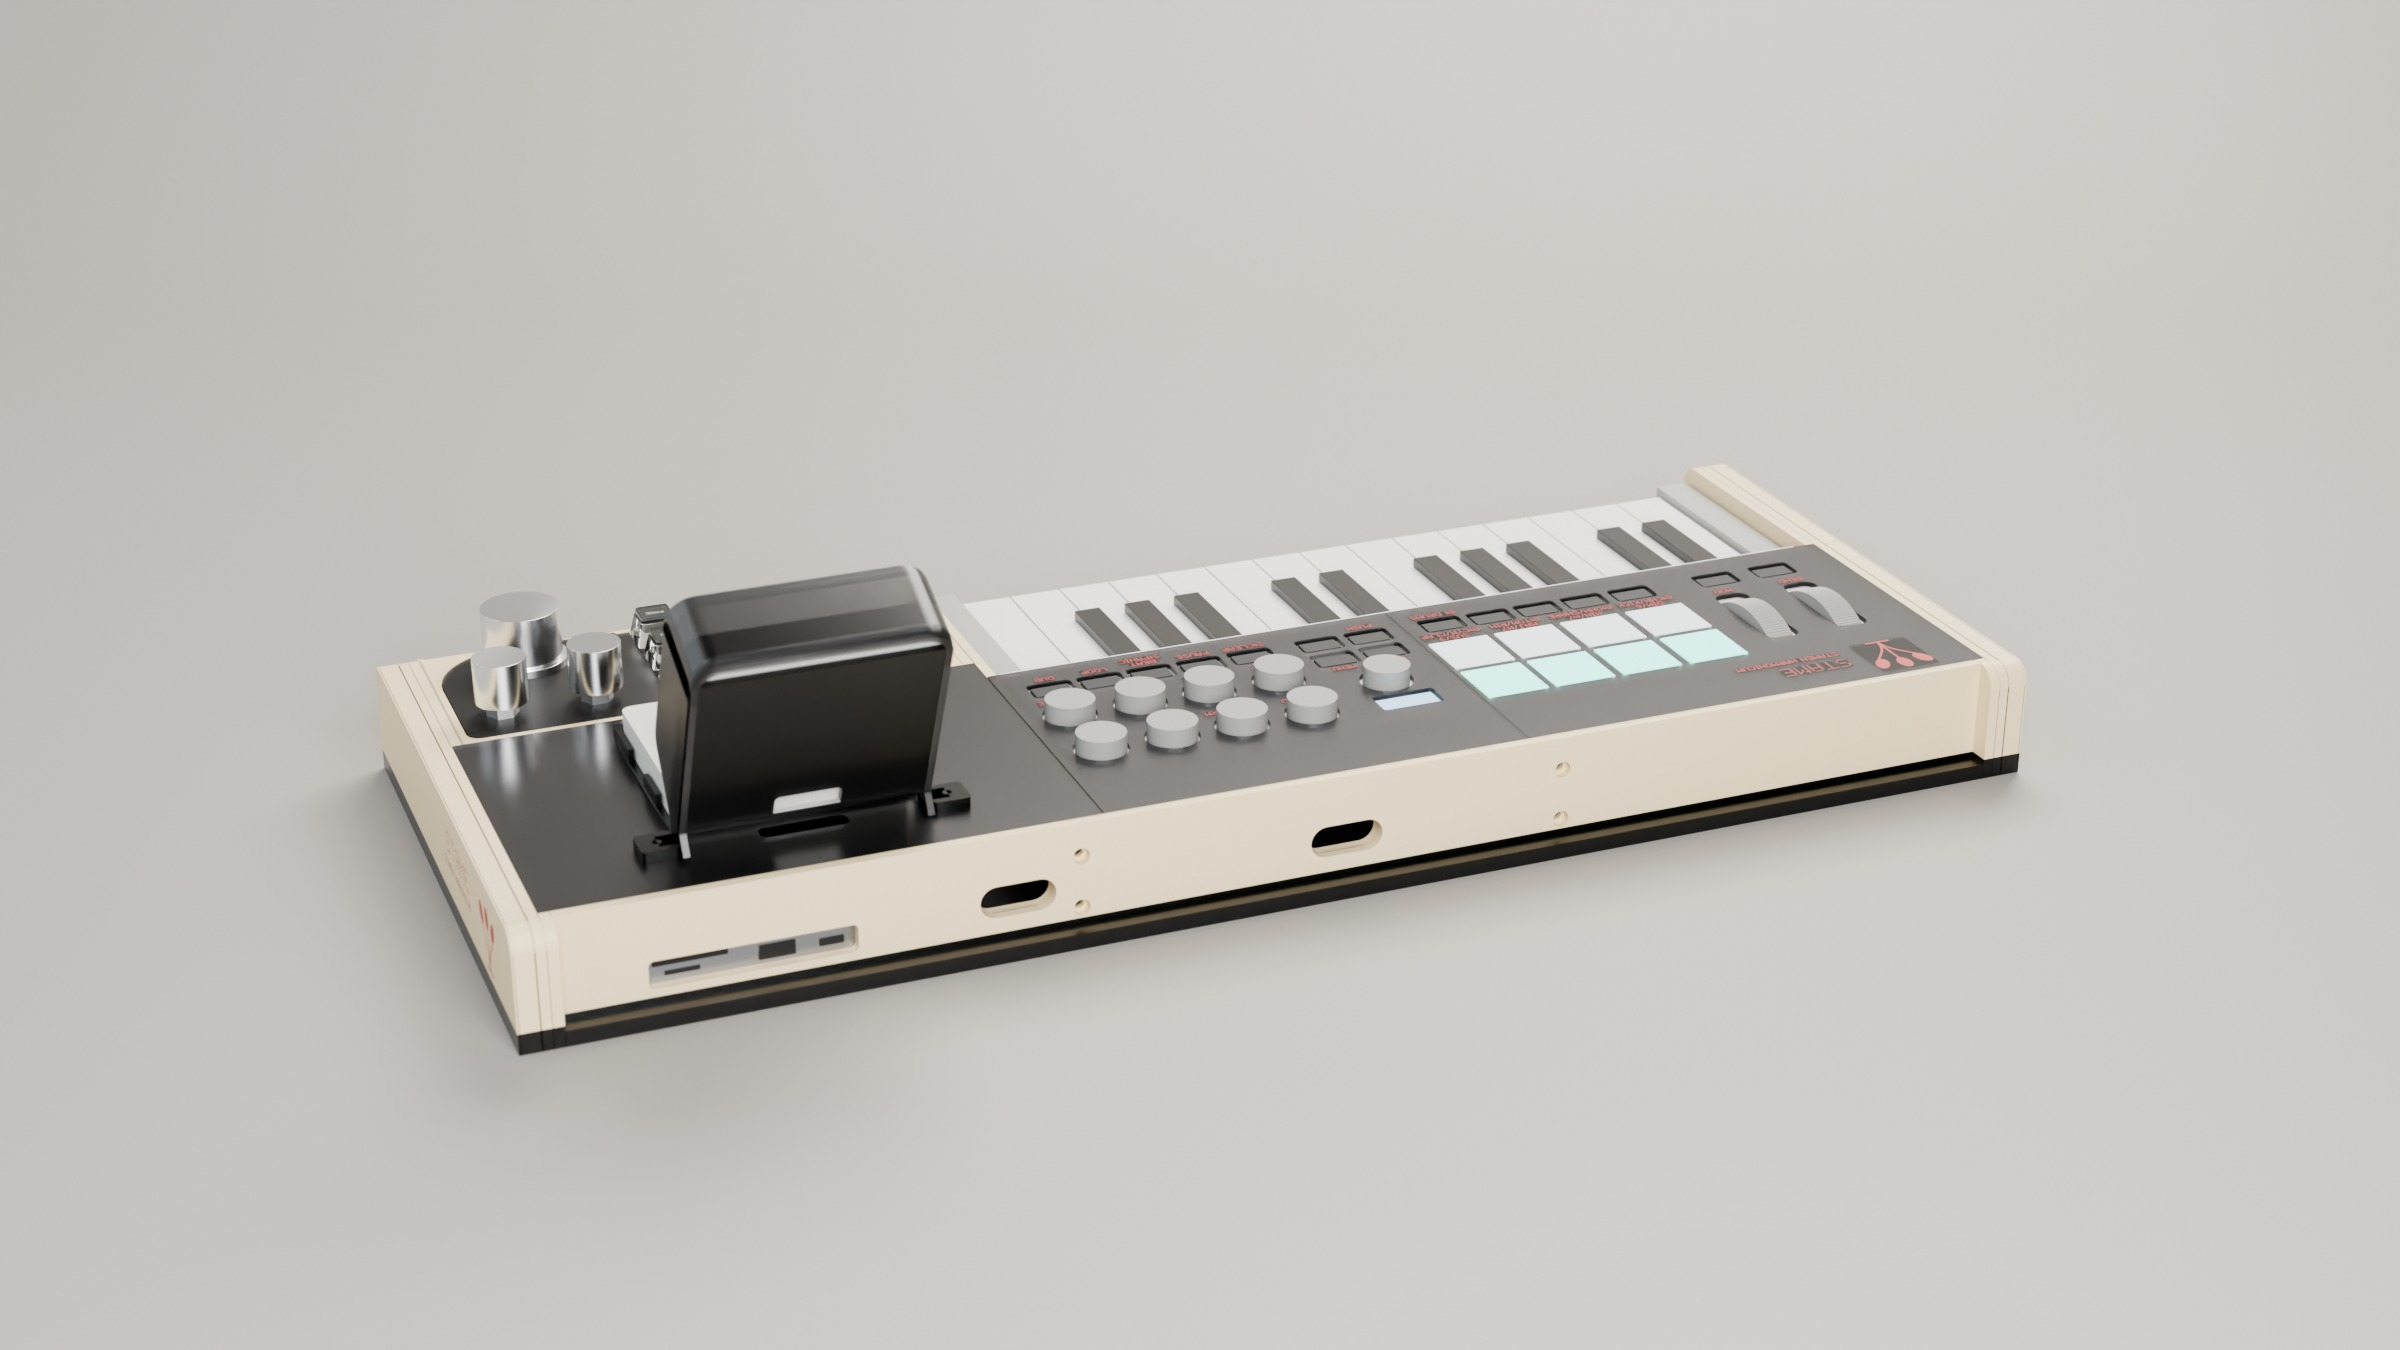
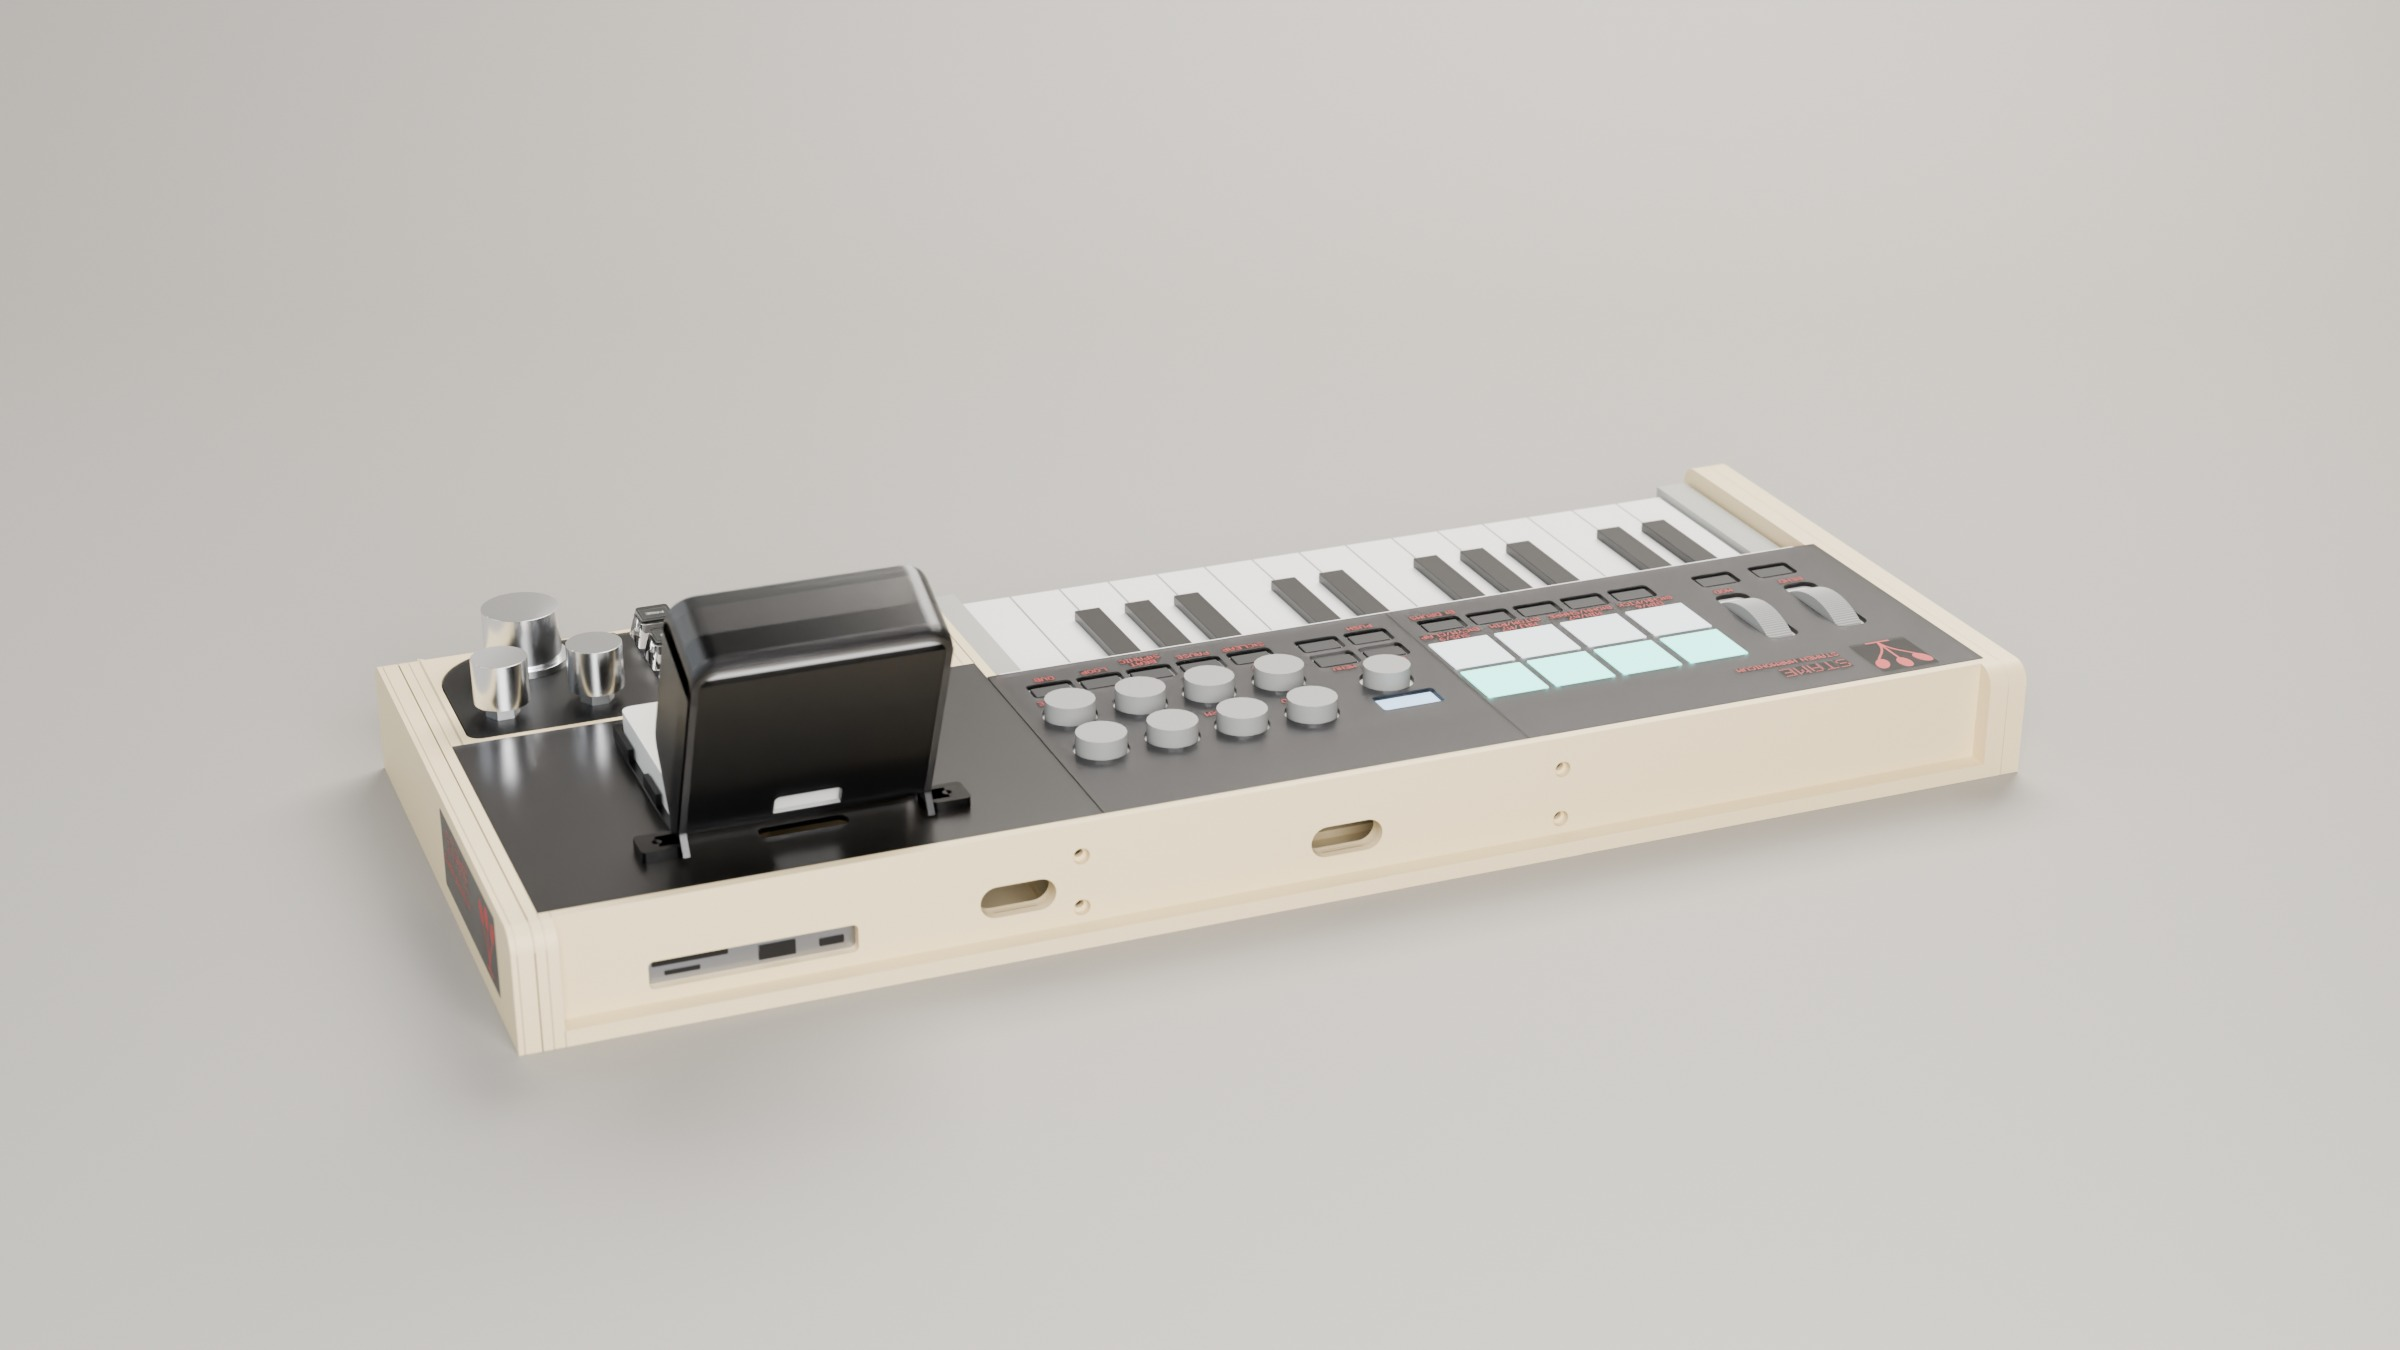
Case stampato, NES: i rendering con le targhe dei fianchi
Le otto viste della console stampata rifatte con le vasche tutte crema e le targhe
grigie con le scritte rosse nella sede dei fianchi; nell'esploso le targhe escono
dalla sede accanto alla loro vasca. Sezione del sito aggiornata: niente più fascia,
un piatto per colore principale.

Claude-Session: https://claude.ai/code/session_01EdkK7soq9kYchAtWqA1FfV

Changed region(s): [[0.1562, 0.56, 0.8438, 0.7778]]

diff --git a/docs/case.it.html b/docs/case.it.html
@@ -171,17 +171,17 @@ try { var t = localStorage.getItem('stame-tema'); if (t) document.documentElemen
     </figure>
     <div class="prosa" style="margin-top:28px">
       <h3>Crema, rosso e grigio fumé</h3>
-      <p>La versione a più colori nei tre PETG che Luigi ha preso, con un richiamo alla console a 8 bit come si vendeva in Europa (solo i colori, niente marchi): le vasche crema con una fascia grigia in basso, i piani, la culla della Flip e la visiera in grigio traslucido, le scritte rosse. La fascia è un cambio di filamento a 8 mm, sotto le scritte dei fianchi. Il grigio traslucido lascia passare un po' di luce: sulla mascherina si intravede il pannello bianco della MK4, la visiera è quasi nera. Rendering con Blender (Cycles), dagli stessi file a più colori, con l'hub nuovo nella finestra del retro. I pezzi da stampare, per la Kobra S1, con la fascia già nei 3MF: <a href="https://github.com/luigismith/stame/tree/main/hardware/case/out/stampa3d_nes">stampa3d_nes</a> (<a href="https://github.com/luigismith/stame/tree/main/hardware/case/out/stampa3d_nes/pezzi.md">elenco</a>, <a href="https://github.com/luigismith/stame/blob/main/hardware/case/out/stampa3d_nes/istruzioni_multicolore.pdf">istruzioni</a>).</p>
+      <p>La versione a più colori nei tre PETG che Luigi ha preso, con un richiamo alla console a 8 bit come si vendeva in Europa (solo i colori, niente marchi): le vasche crema, i piani, la culla della Flip e la visiera in grigio traslucido, le scritte rosse. Le vasche sono di un filamento solo: il marchio e il nome dei fianchi stanno su due targhe grigie con le scritte rosse, stampate come la mascherina e incollate in una sede del fianco. Così il filamento cambia solo nei primi tre strati dei pezzi piatti, e il lavoro per lo slicer ha un piatto per colore principale. Il grigio traslucido lascia passare un po' di luce: sulla mascherina si intravede il pannello bianco della MK4, la visiera è quasi nera. Rendering con Blender (Cycles), dagli stessi file a più colori, con l'hub nuovo nella finestra del retro. I pezzi da stampare e il lavoro per Anycubic Slicer Next, per la Kobra S1: <a href="https://github.com/luigismith/stame/tree/main/hardware/case/out/stampa3d_nes">stampa3d_nes</a> (<a href="https://github.com/luigismith/stame/tree/main/hardware/case/out/stampa3d_nes/pezzi.md">elenco</a>, <a href="https://github.com/luigismith/stame/blob/main/hardware/case/out/stampa3d_nes/istruzioni_multicolore.pdf">istruzioni</a>).</p>
     </div>
     <figure class="foto-grande" style="margin-top:16px">
-      <img src="sito/img/case/render_stampata_eroe.jpg" alt="Rendering della console tutta stampata: tre vasche crema con la fascia grigia in basso, la mascherina e il piano grigio fumé con le scritte rosse, la MPK, il pad nella sua culla e la Flip aperta sotto la visiera fumé" width="1600" height="900" loading="lazy">
+      <img src="sito/img/case/render_stampata_eroe.jpg" alt="Rendering della console tutta stampata: tre vasche crema con le targhe grigie dei fianchi, la mascherina e il piano grigio fumé con le scritte rosse, la MPK, il pad nella sua culla e la Flip aperta sotto la visiera fumé" width="1600" height="900" loading="lazy">
       <figcaption>La console tutta stampata, a tre vasche per il piatto da 240: crema, rosso e grigio traslucido.</figcaption>
     </figure>
     <div class="galleria larga">
       <figure><img src="sito/img/case/render_stampata_mascherina.jpg" alt="La mascherina stampata da vicino: grigio fumé, con i nomi di pad, manopole e pulsanti in rosso" width="1600" height="900" loading="lazy"><figcaption><b>La mascherina.</b> Grigio traslucido con le scritte rosse, stampate nel secondo filamento a filo della faccia; sotto si intravede il pannello della MK4.</figcaption></figure>
       <figure><img src="sito/img/case/render_stampata_pad.jpg" alt="Il macro pad nella culla crema della vasca di destra, il piano fumé con la legenda rossa delle manopole" width="1600" height="900" loading="lazy"><figcaption><b>Il pad.</b> La sua culla fa parte della vasca di destra; sul piano la legenda delle manopole in rosso.</figcaption></figure>
-      <figure><img src="sito/img/case/render_stampata_frontale.jpg" alt="La console stampata di fronte, bassa: la fascia grigia sotto le vasche crema" width="1600" height="900" loading="lazy"><figcaption><b>Di fronte.</b> La fascia grigia, alta 8 mm: il filamento cambia a quello strato.</figcaption></figure>
-      <figure><img src="sito/img/case/render_stampata_fianco.jpg" alt="Il fianco destro crema con il nome STAME e il marchio in rosso, la Flip sotto la visiera fumé" width="1600" height="900" loading="lazy"><figcaption><b>Il fianco.</b> Il marchio e il nome in rosso, incassati nella faccia di fuori della vasca.</figcaption></figure>
+      <figure><img src="sito/img/case/render_stampata_frontale.jpg" alt="La console stampata di fronte, bassa: le vasche crema, la mascherina grigia con le scritte rosse" width="1600" height="900" loading="lazy"><figcaption><b>Di fronte.</b> Le vasche crema, di un filamento solo: ognuna sul suo piatto, senza cambi.</figcaption></figure>
+      <figure><img src="sito/img/case/render_stampata_fianco.jpg" alt="Il fianco destro crema con la targa grigia, il nome STAME e il marchio in rosso, la Flip sotto la visiera fumé" width="1600" height="900" loading="lazy"><figcaption><b>Il fianco.</b> La targa grigia con il marchio e il nome in rosso, a filo nella sua sede.</figcaption></figure>
       <figure><img src="sito/img/case/render_stampata_retro.jpg" alt="La console stampata da dietro: il retro crema con le finestre di pedale e audio e quella delle porte dell'hub" width="1600" height="900" loading="lazy"><figcaption><b>Dal retro.</b> Nella finestra lunga il lato dell'hub con la USB-C di alimentazione, la USB 2.0, la SD e la microSD.</figcaption></figure>
       <figure><img src="sito/img/case/render_stampata_sera.jpg" alt="La console stampata al buio, con il tema Notte sullo schermo della Flip" width="1600" height="900" loading="lazy"><figcaption><b>Di sera.</b> Il tema Notte: lo schermo e i pad fanno la luce.</figcaption></figure>
     </div>

diff --git a/docs/case.html b/docs/case.html
@@ -171,17 +171,17 @@ try { var t = localStorage.getItem('stame-tema'); if (t) document.documentElemen
     </figure>
     <div class="prosa" style="margin-top:28px">
       <h3>Cream, red and smoke grey</h3>
-      <p>The multicolour version in the three PETG filaments Luigi bought, with a nod to the 8-bit console as it was sold in Europe (the colours only, no marks): cream trays with a grey band at the bottom, the tops, the Flip's cradle and the visor in translucent grey, red lettering. The band is a filament change at 8 mm, below the lettering on the sides. The translucent grey lets some light through: on the mask you can make out the MK4's white panel, the visor is almost black. Rendered in Blender (Cycles) from the same multicolour files, with the new hub in the opening of the back. The parts to print, for the Kobra S1, with the band already in the 3MF files: <a href="https://github.com/luigismith/stame/tree/main/hardware/case/out/stampa3d_nes">stampa3d_nes</a> (<a href="https://github.com/luigismith/stame/tree/main/hardware/case/out/stampa3d_nes/pezzi.md">list</a>, <a href="https://github.com/luigismith/stame/blob/main/hardware/case/out/stampa3d_nes/istruzioni_multicolore.pdf">instructions</a>, in Italian).</p>
+      <p>The multicolour version in the three PETG filaments Luigi bought, with a nod to the 8-bit console as it was sold in Europe (the colours only, no marks): cream trays, the tops, the Flip's cradle and the visor in translucent grey, red lettering. The trays use a single filament: the mark and the name on the sides sit on two grey plates with red lettering, printed like the mask and glued into a recess in the side. So the filament only changes in the first three layers of the flat parts, and the slicer job has one plate per main colour. The translucent grey lets some light through: on the mask you can make out the MK4's white panel, the visor is almost black. Rendered in Blender (Cycles) from the same multicolour files, with the new hub in the opening of the back. The parts to print and the Anycubic Slicer Next job, for the Kobra S1: <a href="https://github.com/luigismith/stame/tree/main/hardware/case/out/stampa3d_nes">stampa3d_nes</a> (<a href="https://github.com/luigismith/stame/tree/main/hardware/case/out/stampa3d_nes/pezzi.md">list</a>, <a href="https://github.com/luigismith/stame/blob/main/hardware/case/out/stampa3d_nes/istruzioni_multicolore.pdf">instructions</a>, in Italian).</p>
     </div>
     <figure class="foto-grande" style="margin-top:16px">
-      <img src="sito/img/case/render_stampata_eroe.jpg" alt="Rendering of the fully printed console: three cream trays with a grey band at the bottom, the smoke grey mask and top with red lettering, the MPK, the pad in its cradle and the Flip open under the smoke visor" width="1600" height="900" loading="lazy">
+      <img src="sito/img/case/render_stampata_eroe.jpg" alt="Rendering of the fully printed console: three cream trays with the grey plates on the sides, the smoke grey mask and top with red lettering, the MPK, the pad in its cradle and the Flip open under the smoke visor" width="1600" height="900" loading="lazy">
       <figcaption>The fully printed console, three trays for a 240 bed: cream, red and translucent grey.</figcaption>
     </figure>
     <div class="galleria larga">
       <figure><img src="sito/img/case/render_stampata_mascherina.jpg" alt="The printed mask up close: smoke grey, with the names of pads, knobs and buttons in red" width="1600" height="900" loading="lazy"><figcaption><b>The mask.</b> Translucent grey with red lettering, printed in the second filament flush with the face; the MK4's panel shows faintly underneath.</figcaption></figure>
       <figure><img src="sito/img/case/render_stampata_pad.jpg" alt="The macro pad in the cream cradle of the right tray, the smoke top with the red legend of the knobs" width="1600" height="900" loading="lazy"><figcaption><b>The pad.</b> Its cradle is part of the right tray; on the top the legend of the knobs in red.</figcaption></figure>
-      <figure><img src="sito/img/case/render_stampata_frontale.jpg" alt="The printed console from the front, low: the grey band under the cream trays" width="1600" height="900" loading="lazy"><figcaption><b>From the front.</b> The grey band, 8 mm high: the filament changes at that layer.</figcaption></figure>
-      <figure><img src="sito/img/case/render_stampata_fianco.jpg" alt="The cream right side with the name STAME and the mark in red, the Flip under the smoke visor" width="1600" height="900" loading="lazy"><figcaption><b>The side.</b> The mark and the name in red, inlaid in the outer face of the tray.</figcaption></figure>
+      <figure><img src="sito/img/case/render_stampata_frontale.jpg" alt="The printed console from the front, low: the cream trays, the grey mask with red lettering" width="1600" height="900" loading="lazy"><figcaption><b>From the front.</b> The cream trays, a single filament each: each on its own plate, with no changes.</figcaption></figure>
+      <figure><img src="sito/img/case/render_stampata_fianco.jpg" alt="The cream right side with the grey plate, the name STAME and the mark in red, the Flip under the smoke visor" width="1600" height="900" loading="lazy"><figcaption><b>The side.</b> The grey plate with the mark and the name in red, flush in its recess.</figcaption></figure>
       <figure><img src="sito/img/case/render_stampata_retro.jpg" alt="The printed console from behind: the cream back with the openings for pedal and audio and the one for the hub's ports" width="1600" height="900" loading="lazy"><figcaption><b>From the back.</b> In the long opening, the side of the hub with the USB-C power input, the USB 2.0 port, SD and microSD.</figcaption></figure>
       <figure><img src="sito/img/case/render_stampata_sera.jpg" alt="The printed console in the dark, with the Night theme on the Flip's screen" width="1600" height="900" loading="lazy"><figcaption><b>At night.</b> The Night theme: the screen and the pads make the light.</figcaption></figure>
     </div>

diff --git a/hardware/case/blender_scena.py b/hardware/case/blender_scena.py
@@ -681,6 +681,7 @@ if STAMPATA:
     # le vasche si staccano di lato, come si calano una accanto all'altra (la x qui ha il segno); quello che sta
     # nella vasca di destra la segue, MK4 e mascherina stanno a metà fra le due di sinistra
     SCOPPIO = [(('vasca_sx',), -40, 0), (('vasca_centro',), 0, 0), (('vasca_dx',), 40, 0), (('Hub',), 40, 18),
+               (('targa_sx',), -60, 0), (('targa_dx',), 60, 0),        # le targhe seguono la vasca, fuori dalla sede
                (('Macro_pad', 'Manopole_del_pad', 'Interruttori_del_pad'), 40, 105),
                (('Tasti_trasparenti', 'etichetta'), 40, 140), (('MPK',), -20, 70), (('mascherina_1',), -28, 180),
                (('mascherina_2',), -12, 180), (('piano_flip',), 40, 180), (('culla_flip',), 40, 205),
